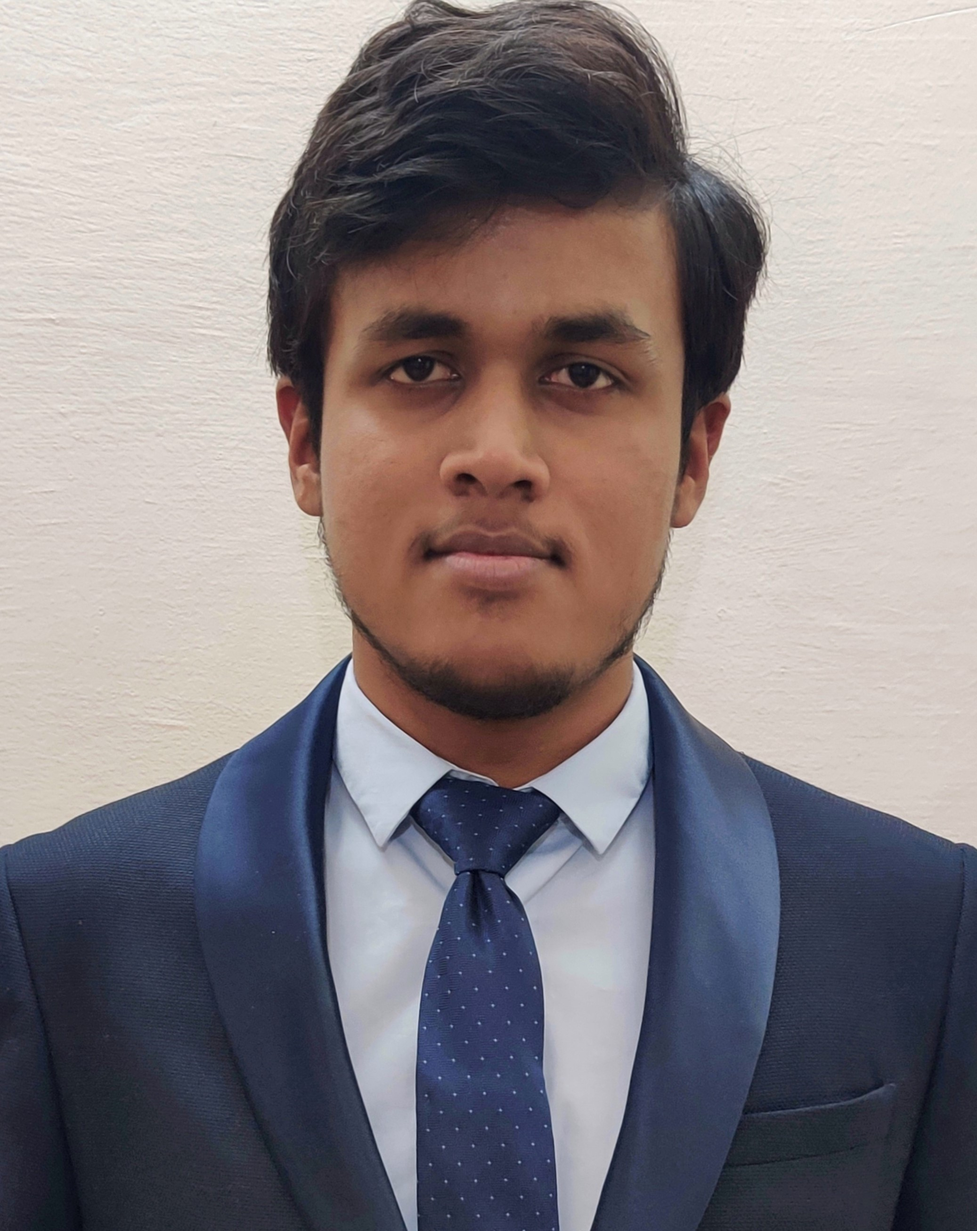
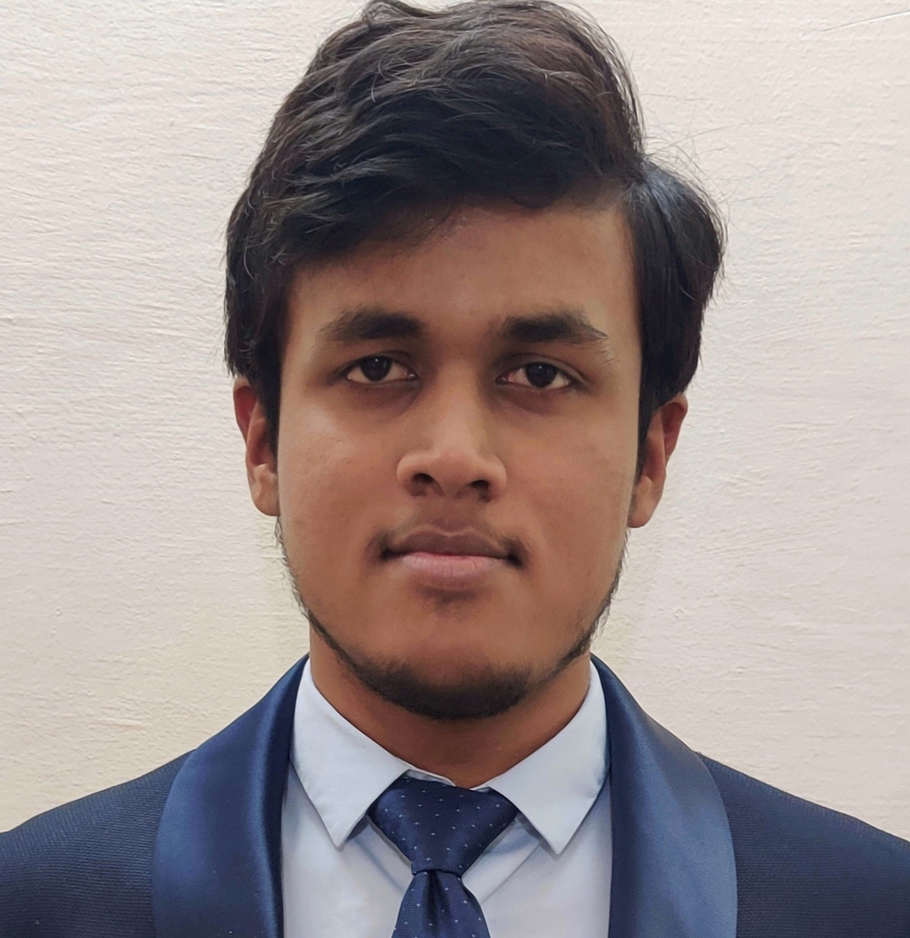
Major Updates
Added New Projects; Changed the photo; Added Awards; Added Positions

diff --git a/index.html b/index.html
@@ -83,11 +83,11 @@
 
       <div class="row">
         <div class="col-lg-4" data-aos="fade-right">
-          <img src="assets/img/me.jpeg" class="img-fluid" alt="">
+          <img src="assets/img/me.jpg" class="img-fluid" alt="" width="280">
         </div>
         <div class="col-lg-8 pt-4 pt-lg-0 content" data-aos="fade-left">
           <h3>Junior Undergraduate, Mechanical Engineering</h3>
-          <p class="font-italic">
+          <p>
             A highly motivated and determined individual with good public speaking skills. Highly attentive to detail and adheres to a strict organizational system. A supportive team player who enjoys a challenging and fast-paced work environment.
           </p>
           <div class="row">
@@ -103,9 +103,9 @@
               </ul>
             </div>-->
           </div>
-          <p>
-            I am passionate about my work and am always excited to read about the latest research and development in science and technology. <br> <br>
-            I spend my free time reading books and watching documentaries.
+          <p class="font-italic">
+            I am passionate about my work and am always excited to read about the latest research and development in science and technology. <br>
+            I spend my free time reading books and watching documentaries. <br>
             I am intrigued by underwater life forms, thrilled by adventure sports and delighted by gourmet food.
           </p>
         </div>
@@ -125,9 +125,16 @@
         <div class="col-lg-6">
 
           <div class="progress">
-            <span class="skill">SOLIDWORKS<i class="val">90%</i></span>
+            <span class="skill">SOLIDWORKS<i class="val">95%</i></span>
             <div class="progress-bar-wrap">
-              <div class="progress-bar" role="progressbar" aria-valuenow="90" aria-valuemin="0" aria-valuemax="100"></div>
+              <div class="progress-bar" role="progressbar" aria-valuenow="95" aria-valuemin="0" aria-valuemax="100"></div>
+            </div>
+          </div>
+
+          <div class="progress">
+            <span class="skill">ABAQUS<i class="val">80%</i></span>
+            <div class="progress-bar-wrap">
+              <div class="progress-bar" role="progressbar" aria-valuenow="80" aria-valuemin="0" aria-valuemax="100"></div>
             </div>
           </div>
 
@@ -139,16 +146,16 @@
           </div>
 
           <div class="progress">
-            <span class="skill">ANSYS<i class="val">90%</i></span>
+            <span class="skill">ANSYS<i class="val">75%</i></span>
             <div class="progress-bar-wrap">
-              <div class="progress-bar" role="progressbar" aria-valuenow="90" aria-valuemin="0" aria-valuemax="100"></div>
+              <div class="progress-bar" role="progressbar" aria-valuenow="75" aria-valuemin="0" aria-valuemax="100"></div>
             </div>
           </div>
 
           <div class="progress">
-            <span class="skill">MSC Adams<i class="val">80%</i></span>
+            <span class="skill">MSC Adams<i class="val">70%</i></span>
             <div class="progress-bar-wrap">
-              <div class="progress-bar" role="progressbar" aria-valuenow="80" aria-valuemin="0" aria-valuemax="100"></div>
+              <div class="progress-bar" role="progressbar" aria-valuenow="70" aria-valuemin="0" aria-valuemax="100"></div>
             </div>
           </div>
 
@@ -171,16 +178,23 @@
           </div>
 
           <div class="progress">
-            <span class="skill">C/C++<i class="val">80%</i></span>
+            <span class="skill">C/C++<i class="val">75%</i></span>
+            <div class="progress-bar-wrap">
+              <div class="progress-bar" role="progressbar" aria-valuenow="75" aria-valuemin="0" aria-valuemax="100"></div>
+            </div>
+          </div>
+
+          <div class="progress">
+            <span class="skill">Minitab<i class="val">80%</i></span>
             <div class="progress-bar-wrap">
               <div class="progress-bar" role="progressbar" aria-valuenow="80" aria-valuemin="0" aria-valuemax="100"></div>
             </div>
           </div>
 
           <div class="progress">
-            <span class="skill">Agisoft<i class="val">60%</i></span>
+            <span class="skill">Fortran<i class="val">65%</i></span>
             <div class="progress-bar-wrap">
-              <div class="progress-bar" role="progressbar" aria-valuenow="60" aria-valuemin="0" aria-valuemax="100"></div>
+              <div class="progress-bar" role="progressbar" aria-valuenow="65" aria-valuemin="0" aria-valuemax="100"></div>
             </div>
           </div>
 
@@ -231,7 +245,7 @@
         <div class="col-lg-3 col-md-4 mt-4">
           <div class="icon-box">
             <i class="ri-gradienter-line" style="color: #ffa76e;"></i>
-            <h3>Orthopaedic Biomechanics</h3>
+            <h3>Orthopedic Biomechanics</h3>
           </div>
         </div>
         <div class="col-lg-3 col-md-4 mt-4">
@@ -258,7 +272,7 @@
 
       <div class="section-title">
         <!-- Download Button -->
-        <a class="btn btn-danger" role="button" style="float: right;" href="https://rebrand.ly/b5b8q"
+        <a class="btn btn-danger" role="button" style="float: right;" href="https://rebrand.ly/jiobt"
         download="Resume">
         Download CV
         </a>
@@ -267,7 +281,7 @@
         <p>Check My Resume</p>
       </div>
 
-
+      <!-- Left side of Resume Section -->
       <div class="row">
         <div class="col-lg-6">
           <h3 class="resume-title">Education</h3>
@@ -277,17 +291,17 @@
             <p><em>Maulana Azad National Institute of Technology, Bhopal (NIT-B)</em></p>
             <p>
             <ul>
-              <li>In top 10% of my batch.</li>
+              <li>In top 5% of my batch.</li>
             </ul>
             </p>
           </div>
           <div class="resume-item">
             <h4>Senior Secondary Education</h4>
             <h5>2016 - 2018</h5>
-            <p><em>Sagar Public School - SN, Bhopal</em></p>
+            <p><em>Sagar Public School - Saket Nagar, Bhopal</em></p>
             <p>
             <ul>
-              <li>Awarded 100% scholarship in +2 for academic excellence.</li>
+              <li>Awarded Full scholarship during intermediate education for academic excellence, by Sagar Group.</li>
             </ul>
             </p>
           </div>
@@ -297,11 +311,64 @@
             <p><em>Narmada Valley International School, Hoshangabad</em></p>
             <p>
             <ul>
-              <li>Appointed as the Literay Secretary.</li>
+              <li>Appointed as the Literary Secretary in the student council.</li>
             </ul>
             </p>
           </div>
           
+          <h3 class="resume-title">Awards and Achievements</h3>
+          <div class="resume-item">
+            <h4>HPAIR Harvard Conference</h4>
+            <h5>01/2021</h5>
+            <p>Selected as a delegate at HPAIR Harvard Conference 2021 – Embracing Change. I presented the advancements and achievements of Biomedical Engineering its future scope.</p>
+          </div>
+          <div class="resume-item">
+            <h4>Undergraduate Presentation Skill Contest</h4>
+            <h5>12/2020</h5>
+            <p>Awarded 2<sup>nd</sup> prize in Undergraduate Presentation Skill Contest (UPSC) at AFTMME 2020 organized by SOMME</p>
+          </div>
+          <div class="resume-item">
+            <h4>BAJA2020 SAEINDIA</h4>
+            <h5>06/2019</h5>
+            <p>Secured and All-India-Rank of 10 in the Virtual round of eBAJA 2020 organized by SAEINDIA</p>
+          </div>
+
+          <h3 class="resume-title">Professional Experience</h3>
+          <div class="resume-item">
+            <h4>WFH Intern</h4>
+            <h5>02/2019 - 03/2019</h5>
+            <p><em>Toppr</em></p>
+            <p>
+            <ul>
+              <li>Answered 300 physics and math questions to help the students preparing for JEE</li>
+            </ul>
+            </p>
+          </div>
+
+          <h3 class="resume-title">Positions of Responsibility</h3>
+          <div class="resume-item">
+            <h4>Co-coordinator</h4>
+            <h5>02/2020 - Present</h5>
+            <p><em>Intellect Browsers’ Consortium (IBC) MANIT</em></p>
+            <p>
+            <ul>
+              <li>Headed a team of 55 members.</li>
+              <li>Organized major events such as MUN, Market Guru, Azure and ttt Workshop in our university campus.</li>
+            </ul>
+            </p>
+          </div>
+          <div class="resume-item">
+            <h4>Branch Coordinator</h4>
+            <h5>03/2020 - Present</h5>
+            <p><em>Vision MANIT</em></p>
+            <p>
+            <ul>
+              <li>Maintained coordination within the mechanical team and with other engineering branch teams.</li>
+              <li>Conducted events such as Last Stand for manual bots and workshops on designing & drone aviation.</li>
+            </ul>
+            </p>
+          </div>
+
           <h3 class="resume-title">Trainings/Certificates</h3>
           <div class="resume-item">
             <h4>3D Printing Software</h4>
@@ -329,7 +396,7 @@
           <div class="resume-item">
             <h4>Autodesk CAD/CAM/CAE for Mechanical Engineering</h4>
             <h5>04/2020 - 05/2020 </h5>
-            <p><em>Learned sketching, modelling, simulations and manufacturing with the help of Fusion 360</em></p>
+            <p><em>Learned sketching, modeling, simulations and manufacturing with the help of Fusion 360</em></p>
             <p>
             <ul>
               <li>Stress Analysis</li>
@@ -357,7 +424,7 @@
             <p>
             <ul>
               <li>Learned Python programming and data structures</li>
-              <li>Final Project of "Ackerman Perecentage Optimizer" was featured by Stanford University on their website of Code in Place</li>
+              <li>Final Project of "Ackerman Percentage Optimizer" was featured by Stanford University on their website of Code in Place</li>
             </ul>
             </p>
           </div>
@@ -365,40 +432,59 @@
 
         <!-- Right side of Resume Section -->
         <div class="col-lg-6">
-          <h3 class="resume-title">Professional Experience</h3>
+          <h3 class="resume-title">Publications and Conferences</h3>
           <div class="resume-item">
-            <h4>WFH Intern</h4>
-            <h5>02/2019 - 03/2019</h5>
-            <p><em>Toppr</em></p>
-            <p>
-            <ul>
-              <li>Answered 300 physics and math questions to help the students preparing for JEE</li>
-            </ul>
-            </p>
+            <h4>ICoEV 2020</h4>
+            <h5>12/2020</h5>
+            <p>Presented a paper at the <em>International Conference on Engineering Vibration</em> (eICoEV 2020) hosted by the
+            University of Aberdeen, Scotland, UK</p>
+          </div>
+          <div class="resume-item">
+            <h4>AFTMME 2020</h4>
+            <h5>12/2020</h5>
+            <p>Presented a paper at the <em>8th International Conference on Advancements and Futuristic Trends in Mechanical and
+            Materials Engineering</em> (AFTMME 2020) as a finalist of the Undergraduate Presentation Skill Contest,
+            organized by the Society of Materials and Mechanical Engineers (SOMME)</p>
+          </div>
+          <div class="resume-item">
+            <h4>IJEWM</h4>
+            <h5>10/2020</h5>
+            <p>D. Kalita, <em>A. Srivastav</em>, P. Rissang, T. Kiba and V. Yadav, “Fabrication and Characterization of Epoxy based Composite Utilizing PET Waste Plastic and Bamboo” is under review and is expected in to be published in the
+            International Journal of Environment and Waste Management (IJEWM)</p>
           </div>
 
           <h3 class="resume-title">Projects</h3>
           <div class="resume-item">
-            <h4>Simulation study of Deep Drawing Ti-sheet (DRDL)</h4>
-            <h5>10/2020 - Present</h5>
-            <p><em>Defence Research and Development Laboratory is a Missile System laboratory - under the Defence Research and Development Organisation - with thrust on design, development and flight evaluation of various types of Missile Systems for the Indian armed forces.</em></p>
+            <h4>Comparison of Stress vs Stretch curves for Hyper elastic materials</h4>
+            <h5>09/2020 - 10/2020</h5>
             <p>
             <ul>
-              <li>Designed the punch and die geometry to obtain exact 90° bends at the corners in the deep drawing process of Ti-sheets.</li>
-              <li>Simulation study using Abaqus CAE to design and improve the manufacturing of C-shapebends in a Plain-Strain assumption.</li>
-              <li>Working on reducing the spring back and thinning of Titanium sheets at the ends of C-shape bends.</li>
+              <li>Replicated the experimental results for uniaxial tensile testing of natural rubber in an FEM study using Abaqus.</li>
+              <li>Replicated the experimental results for uniaxial tensile testing of natural rubber in an FEM study using Abaqus.</li>
+              <li>Working on writing a book chapter, comparing all the analytically models for Hyper elastic materials (Mooney-Rivlin, Neo-Hookean, Ogden, Yeoh and Gent) using FEA, considering the experimental results to be ideal.</li>
+            </ul>
+            </p>
+          </div>
+          <div class="resume-item">
+            <h4>Simulation study of Deep Drawing process on Titanium-sheets</h4>
+            <h5>09/2020 - 10/2020</h5>
+            <p>
+            <ul>
+              <li>Designed the punch and die geometry to obtain 90° bends at the corners in the deep drawing of Titanium sheets.</li>
+              <li>FEA using Abaqus to improve the manufacturing of C-shape bends, with a Plane-Strain assumption.</li>
+              <li>Reduced the spring back and thinning of Ti-sheets at the ends of C-shape bends by controlling the temperature of sheet.</li>
             </ul>
             </p>
           </div>
           <div class="resume-item">
             <h4>Recuperation of Scaphoid Bone Fracture</h4>
             <h5>08/2020 - Present</h5>
-            <p><em>Scaphoid bone is the most vunerable bone of the 8 carpal bones in our hands. Its fractures are often ignored by the patients as mild pain due to its complicated blood circulation pattern and slow healing.</em></p>
+            <p><em>Scaphoid bone is the most vulnerable bone of the 8 carpal bones in our hands. Its fractures are mistaken by the patients as mild pain, due to its complicated blood circulation pattern and slow healing.</em></p>
             <p>
             <ul>
-              <li>Reverse engineering the Scaphoid bone from CT scans, reconstructing it as a CAD model.</li>
-              <li>Computational analysis and simulation of Scaphoid bone to study its fracture patterns and locations.</li>
-              <li>Determine the exact position to insert a screw for faster and better healing.</li>
+              <li>Reconstructed the Scaphoid bone as a CAD model from an STL File, generated from CT scan of a cadaver’s bone.</li>
+              <li>Predicted the fracture patterns at different impact loads in FEA using ANSYS static structural analysis.</li>
+              <li>Working on predictive surgery i.e., precisely locating the K-wire and Herbert’s screw fixation in the best configuration for maximum stability and faster healing.</li>
             </ul>
             </p>
           </div>
@@ -408,7 +494,7 @@
             <p><em>Worked on designing the steering system of the eBAJA buggy</em></p>
             <p>
             <ul>
-              <li>Produced a peak torque of 38 Nm and maximum acceleration of 3.75 m/s2 at nominal current
+              <li>Produced a peak torque of 38 Nm and maximum acceleration of 3.75 m/s<sup>2</sup> at nominal current
               of 100 A. Reaching top speed of 38 km/h with run time of 108 min in a full charge.</li>
               <li>Used Reverse Ackerman geometry to minimize bump steer, avoid buckling of tie rod
               and increase pedal installation space.</li>
@@ -661,6 +747,7 @@
           <div class="info-box">
             <i class="bx bx-envelope"></i>
             <h3>Email Me</h3>
+            <p>as.181116002@manit.ac.in</p>
             <p>nitb.ayush@gmail.com</p>
           </div>
         </div>
